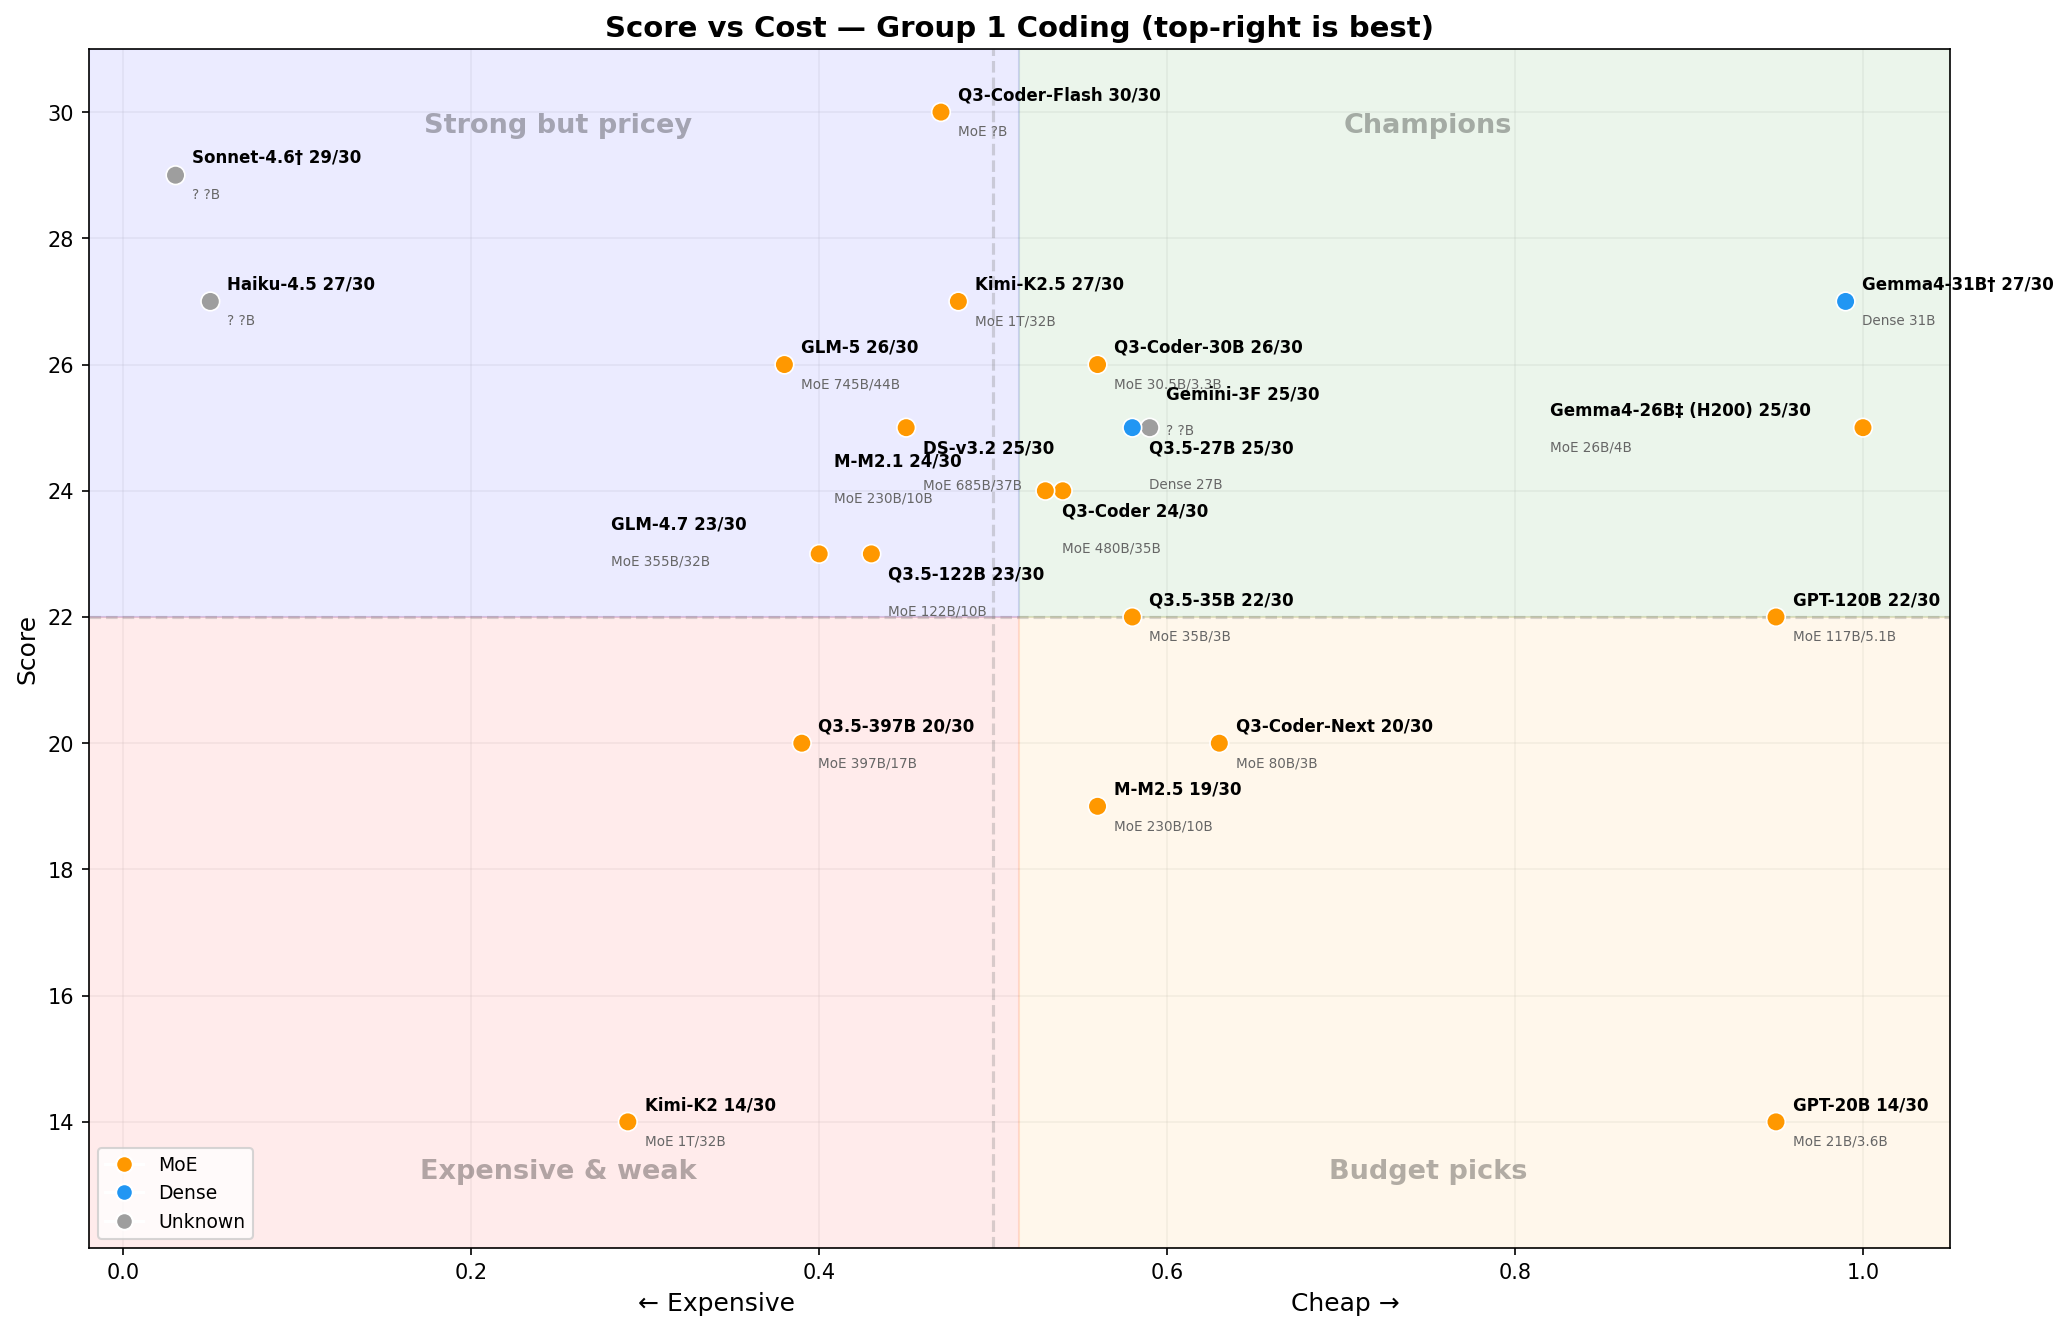
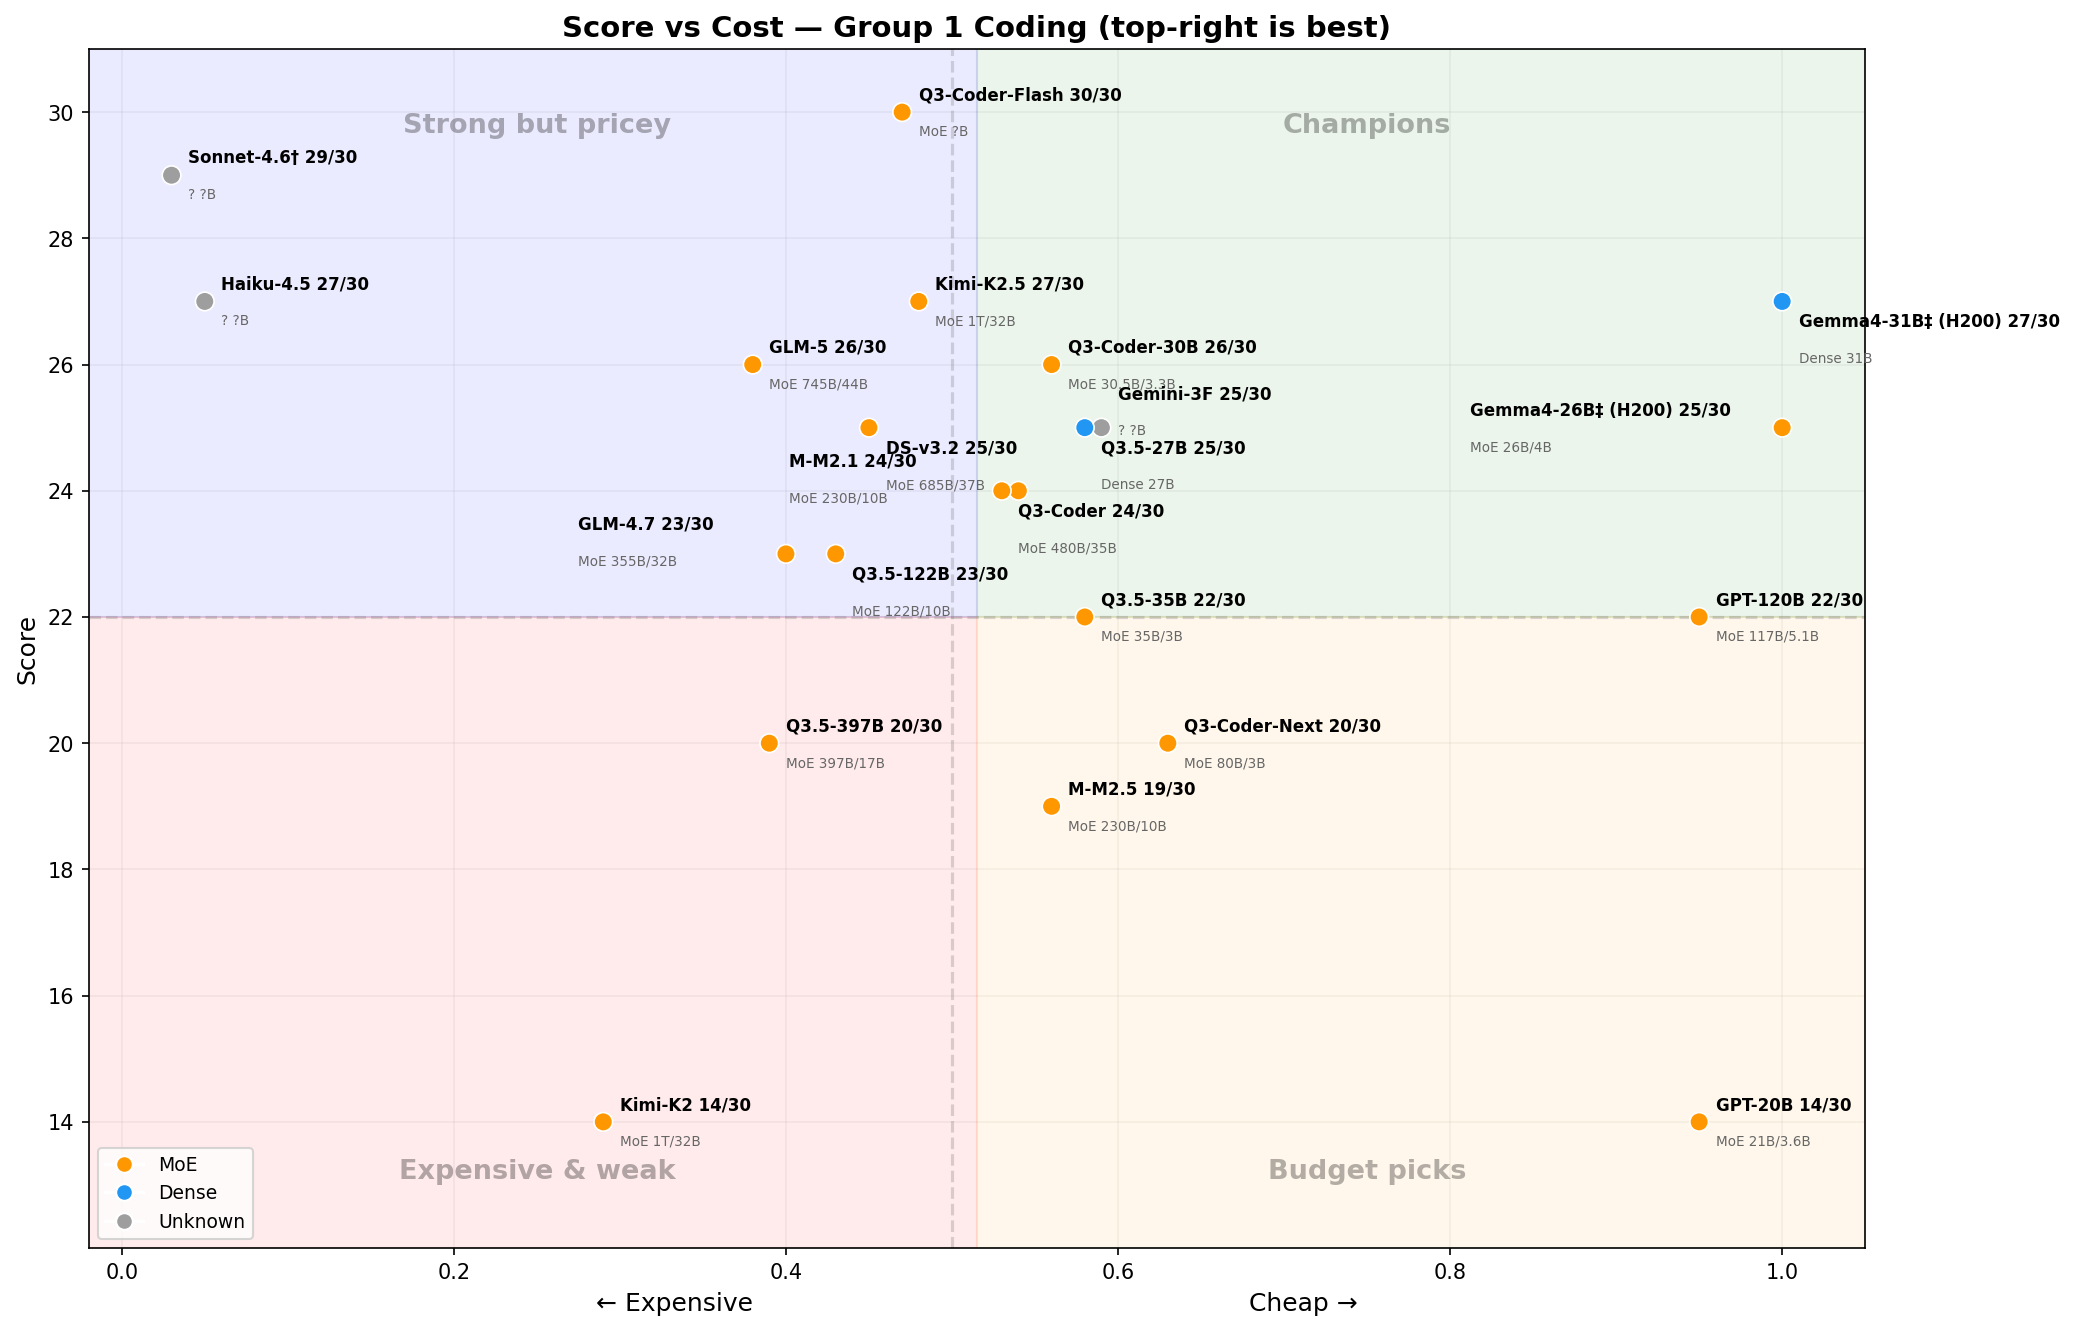
docs: gemma-4-31b-it on H200 vLLM scores 81/90, ties #1 with Sonnet 4.6
Retested gemma-4-31b-it locally on H200 GPU running vLLM (FP8, gemma4
tool parser). G2 gains +1 (test 06 file organizer), bringing total to
81/90 — tied for #1 with Claude Sonnet 4.6. G1 and G3 unchanged at 27.

Updated both READMEs (en + zh): combined chart, main leaderboard,
per-group tables, 31B runner comparison, Dense vs MoE section, and
history table. Regenerated quadrant charts.

diff --git a/generate_quadrant.py b/generate_quadrant.py
@@ -11,7 +11,7 @@ import numpy as np
 # cost_estimate is relative (0=expensive, 1=cheap) matching the mermaid chart
 DATA = [
     ("Sonnet-4.6†", "?", "?B", 29, 0.03),
-    ("Gemma4-31B†", "Dense", "31B", 27, 0.99),
+    ("Gemma4-31B‡ (H200)", "Dense", "31B", 27, 1.00),
     ("Gemma4-26B‡ (H200)", "MoE", "26B/4B", 25, 1.00),
     ("Q3-Coder-Flash", "MoE", "?B", 30, 0.47),
     ("Kimi-K2.5", "MoE", "1T/32B", 27, 0.48),
@@ -104,6 +104,7 @@ def generate_chart(lang='en'):
         "M-M2.5": (8, 4),
         "GPT-20B": (8, 4),
         "Kimi-K2": (8, 4),
+        "Gemma4-31B‡ (H200)": (8, -14),
         "Gemma4-26B‡ (H200)": (-150, 4),
     }
 

diff --git a/README.md b/README.md
@@ -18,9 +18,9 @@ An automated benchmark suite for evaluating LLM **agentic coding ability** via O
 ```mermaid
 xychart-beta horizontal
     title "Combined Score: Coding + OpenClaw + Text-to-SQL (out of 90)"
-    x-axis ["Sonnet†", "Q3-CF", "Gemma4-31B†", "Q3-C", "Q3.5-122B", "GLM-5", "Q3.5-27B", "Q3-30B", "Q3.5-35B", "Q3.5-397B", "GLM4.7", "Gem3F", "Gemma4-26B‡", "GPT-120B", "Haiku†", "Q3-CN", "Kimi2.5", "DS-v3.2", "M-M2.1", "M-M2.5", "GPT-20B", "Kimi2", "Nemo120B"]
+    x-axis ["Sonnet†", "Gemma4-31B‡", "Q3-CF", "Q3-C", "Q3.5-122B", "GLM-5", "Q3.5-27B", "Q3-30B", "Q3.5-35B", "Q3.5-397B", "GLM4.7", "Gem3F", "Gemma4-26B‡", "GPT-120B", "Haiku†", "Q3-CN", "Kimi2.5", "DS-v3.2", "M-M2.1", "M-M2.5", "GPT-20B", "Kimi2", "Nemo120B"]
     y-axis "Score" 0 --> 90
-    bar [81, 80, 80, 77, 77, 77, 75, 73, 72, 72, 71, 70, 70, 69, 69, 66, 65, 62, 61, 58, 52, 41, 17]
+    bar [81, 81, 80, 77, 77, 77, 75, 73, 72, 72, 71, 70, 70, 69, 69, 66, 65, 62, 61, 58, 52, 41, 17]
 ```
 
 ### Leaderboard
@@ -28,30 +28,30 @@ xychart-beta horizontal
 | Rank | Model | Open | Arch | Params | Active | G1 | G2 | G3 | Total |
 |------|-------|:----:|:----:|-------:|-------:|:--:|:--:|:--:|:-----:|
 | 1 | **anthropic/claude-sonnet-4.6** (Claude Code) | | ? | ? | ? | 29 | 26 | 26 | **81** |
-| 2 | qwen/qwen3-coder-flash (OpenRouter) | | MoE | ? | ? | 30 | 25 | 25 | **80** |
-| 2 | google/gemma-4-31b-it† (Gemini API) | OSS | Dense | 31B | 31B | 27 | 26 | 27 | **80** |
-| 4 | qwen/qwen3-coder | OSS | MoE | 480B | 35B | 24 | 24 | 29 | **77** |
-| 4 | qwen/qwen3.5-122b | OSS | MoE | 122B | 10B | 23 | 27 | 27 | **77** |
-| 4 | z-ai/glm-5 | OSS | MoE | 745B | 44B | 26 | 24 | 27 | **77** |
-| 7 | qwen/qwen3.5-27b | OSS | Dense | 27B | 27B | 25 | 26 | 24 | **75** |
-| 8 | qwen/qwen3-coder-30b | OSS | MoE | 30.5B | 3.3B | 26 | 23 | 24 | **73** |
-| 9 | qwen/qwen3.5-35b | OSS | MoE | 35B | 3B | 22 | 27 | 23 | **72** |
-| 9 | qwen/qwen3.5-397b | OSS | MoE | 397B | 17B | 20 | 26 | 26 | **72** |
-| 11 | z-ai/glm-4.7 | OSS | MoE | 355B | 32B | 23 | 23 | 25 | **71** |
-| 12 | google/gemini-3-flash | | ? | ? | ? | 25 | 20 | 25 | **70** |
-| 12 | google/gemma-4-26b-a4b-it‡ (H200, vLLM) | OSS | MoE | 26B | 4B | 25 | 20 | 25 | **70** |
-| 14 | openai/gpt-oss-120b | OSS | MoE | 117B | 5.1B | 22 | 23 | 24 | **69** |
-| 14 | anthropic/claude-haiku-4.5† | | ? | ? | ? | 30 | 20 | 19 | **69** |
-| 16 | qwen/qwen3-coder-next | OSS | MoE | 80B | 3B | 20 | 24 | 22 | **66** |
-| 17 | moonshotai/kimi-k2.5 | OSS | MoE | 1T | 32B | 27 | 23 | 15 | **65** |
-| 18 | deepseek/deepseek-v3.2 | OSS | MoE | 685B | 37B | 25 | 21 | 16 | **62** |
-| 19 | minimax/minimax-m2.1 | OSS | MoE | 230B | 10B | 24 | 19 | 18 | **61** |
-| 20 | minimax/minimax-m2.5 | OSS | MoE | 230B | 10B | 19 | 19 | 20 | **58** |
-| 21 | openai/gpt-oss-20b | OSS | MoE | 21B | 3.6B | 14 | 23 | 15 | **52** |
-| 22 | moonshotai/kimi-k2 | OSS | MoE | 1T | 32B | 14 | 13 | 14 | **41** |
-| 23 | nvidia/nemotron-3-super | OSS | MoE | 120B | 12B | 5 | 12 | 0 | **17** |
+| 1 | **google/gemma-4-31b-it‡** (H200, vLLM) | OSS | Dense | 31B | 31B | 27 | 27 | 27 | **81** |
+| 3 | qwen/qwen3-coder-flash (OpenRouter) | | MoE | ? | ? | 30 | 25 | 25 | **80** |
+| 5 | qwen/qwen3-coder | OSS | MoE | 480B | 35B | 24 | 24 | 29 | **77** |
+| 5 | qwen/qwen3.5-122b | OSS | MoE | 122B | 10B | 23 | 27 | 27 | **77** |
+| 5 | z-ai/glm-5 | OSS | MoE | 745B | 44B | 26 | 24 | 27 | **77** |
+| 8 | qwen/qwen3.5-27b | OSS | Dense | 27B | 27B | 25 | 26 | 24 | **75** |
+| 9 | qwen/qwen3-coder-30b | OSS | MoE | 30.5B | 3.3B | 26 | 23 | 24 | **73** |
+| 10 | qwen/qwen3.5-35b | OSS | MoE | 35B | 3B | 22 | 27 | 23 | **72** |
+| 10 | qwen/qwen3.5-397b | OSS | MoE | 397B | 17B | 20 | 26 | 26 | **72** |
+| 12 | z-ai/glm-4.7 | OSS | MoE | 355B | 32B | 23 | 23 | 25 | **71** |
+| 13 | google/gemini-3-flash | | ? | ? | ? | 25 | 20 | 25 | **70** |
+| 13 | google/gemma-4-26b-a4b-it‡ (H200, vLLM) | OSS | MoE | 26B | 4B | 25 | 20 | 25 | **70** |
+| 15 | openai/gpt-oss-120b | OSS | MoE | 117B | 5.1B | 22 | 23 | 24 | **69** |
+| 15 | anthropic/claude-haiku-4.5† | | ? | ? | ? | 30 | 20 | 19 | **69** |
+| 17 | qwen/qwen3-coder-next | OSS | MoE | 80B | 3B | 20 | 24 | 22 | **66** |
+| 18 | moonshotai/kimi-k2.5 | OSS | MoE | 1T | 32B | 27 | 23 | 15 | **65** |
+| 19 | deepseek/deepseek-v3.2 | OSS | MoE | 685B | 37B | 25 | 21 | 16 | **62** |
+| 20 | minimax/minimax-m2.1 | OSS | MoE | 230B | 10B | 24 | 19 | 18 | **61** |
+| 21 | minimax/minimax-m2.5 | OSS | MoE | 230B | 10B | 19 | 19 | 20 | **58** |
+| 22 | openai/gpt-oss-20b | OSS | MoE | 21B | 3.6B | 14 | 23 | 15 | **52** |
+| 23 | moonshotai/kimi-k2 | OSS | MoE | 1T | 32B | 14 | 13 | 14 | **41** |
+| 24 | nvidia/nemotron-3-super | OSS | MoE | 120B | 12B | 5 | 12 | 0 | **17** |
 
-> **Open** = OSS (open weights on HuggingFace). **Arch** = Dense or MoE. G1 = Python Fundamentals, G2 = OpenClaw Skills, G3 = Text-to-SQL. 23 models tested, March–April 2026. **†** Claude models tested via Claude Code (native API); Gemma 4 31B tested via Gemini native API; all other models tested via OpenRouter. **‡** Gemma 4 26B-A4B retested locally on an **H200 GPU running vLLM** (FP8, native tool calling via the gemma4 parser).
+> **Open** = OSS (open weights on HuggingFace). **Arch** = Dense or MoE. G1 = Python Fundamentals, G2 = OpenClaw Skills, G3 = Text-to-SQL. 23 models tested, March–April 2026. **†** Claude models tested via Claude Code (native API); all other models tested via OpenRouter. **‡** Gemma 4 models retested locally on an **H200 GPU running vLLM** (FP8, native tool calling via the gemma4 parser).
 >
 > **G2 scores updated 2026-03-21:** Validation scripts were fixed to accept SKILL.md placed in subdirectories. Biggest improvements: **qwen3.5-122b** (+17), **gpt-oss-20b** (+16), **GLM-5** (+16).
 >
@@ -71,8 +71,8 @@ xychart-beta horizontal
 
 ### Key Findings
 
-1. **qwen3-coder-flash and Gemma 4 31B tie at 80/90** — qwen3-coder-flash via OpenRouter, Gemma 4 via Gemini native API; both consistently strong across all 3 groups
-2. **Gemma 4 31B is the smallest Dense model to hit 80/90** — at 31B parameters, it outperforms models 5-20x its size; thinking mode adds zero benefit (identical scores)
+1. **Gemma 4 31B ties Sonnet 4.6 for #1 at 81/90 on local H200** — retested via local vLLM (FP8, gemma4 tool parser), gaining +1 on G2 vs the Gemini API run; the smallest Dense model to hit #1
+2. **Gemma 4 31B is the smallest Dense model to hit 81/90** — at 31B parameters, it outperforms models 5-20x its size; thinking mode adds zero benefit (identical scores)
 3. **Gemma 4 26B-A4B (sparse, 4B active) jumps to 70/90 on local H200** — retested via local vLLM with the native gemma4 tool-call parser; previously only 59/90 via Gemini API where rate limits and tool-call translation were dragging G3 down. The model is genuinely capable; the earlier gap was infrastructure, not architecture.
 4. **3-way tie for #4 at 77/90** — qwen3-coder (G3 champion at 29/30), qwen3.5-122b, and GLM-5
 5. **Text-to-SQL reshuffles rankings** — kimi-k2.5 drops from top 3 to #16 due to intermittent tool-use failures on G3; GLM-5 rises thanks to strong G3 performance (27/30)
@@ -94,16 +94,17 @@ We retested Claude Sonnet 4.6 and Haiku 4.5 using **Claude Code subagents** (Ant
 
 **Implication for the leaderboard:** The OpenRouter scores represent a level playing field where every model uses the same API format. The Claude Code scores show what these models can achieve with their native tooling. Other models (Gemini, GPT, etc.) would likely also score higher through their native APIs. The benchmark measures **tool-use via OpenRouter**, not raw model capability — keep this in mind when interpreting results.
 
-### Gemma 4 31B: OpenRouter vs Gemini Native API
+### Gemma 4 31B: OpenRouter → Gemini API → Local H200
 
-We tested google/gemma-4-31b-it using **Google's Gemini native API** with function calling support. On OpenRouter, the model's provider (Novita) does not support native tool calling, requiring a prompt-based workaround. The Gemini API provides proper function calling, yielding much better results.
+We tested google/gemma-4-31b-it across three runners. On OpenRouter, the model's provider (Novita) does not support native tool calling. The Gemini API provides proper function calling. Finally, we retested on a **local H200 GPU running vLLM** (FP8 weights, `--tool-call-parser gemma4`).
 
-| Mode | G1 | G2 | G3 | Total |
-|------|:--:|:--:|:--:|:-----:|
-| **Gemini API (no thinking)** | 27 | 26 | 27 | **80/90** |
-| **Gemini API (thinking=HIGH)** | 27 | 26 | 27 | **80/90** |
+| Runner | G1 | G2 | G3 | Total |
+|--------|:--:|:--:|:--:|:-----:|
+| **H200 / vLLM (FP8)** | 27 | **27** | 27 | **81/90** |
+| Gemini API (no thinking) | 27 | 26 | 27 | 80/90 |
+| Gemini API (thinking=HIGH) | 27 | 26 | 27 | 80/90 |
 
-**Key finding:** Thinking/reasoning mode adds zero benefit — identical scores on every single test. At 31B parameters (Dense), this is the smallest model to achieve 80/90, and it's completely free via Google's API.
+**Key finding:** Local vLLM with the native gemma4 tool parser scores **81/90 — tied for #1** with Sonnet 4.6. The +1 over the Gemini API came from G2 test 06 (file organizer). Thinking mode still adds zero benefit. At 31B Dense parameters, this is the smallest model to reach #1.
 
 ### Gemma 4 31B (Dense) vs 26B-A4B (MoE) — Now via Local H200
 
@@ -111,15 +112,14 @@ We also tested `gemma-4-26b-a4b-it` — the sparse MoE variant with 26B total pa
 
 | Model | Runner | Arch | Total | Active | G1 | G2 | G3 | Total |
 |-------|--------|------|:-----:|:------:|:--:|:--:|:--:|:-----:|
-| **gemma-4-31b-it** | Gemini API | Dense | 31B | 31B | 27 | 26 | 27 | **80/90** |
-| **gemma-4-26b-a4b-it** | **H200 / vLLM (FP8)** | MoE | 26B | ~4B | **25** | **20** | **25** | **70/90** |
+| **gemma-4-31b-it** | **H200 / vLLM (FP8)** | Dense | 31B | 31B | 27 | **27** | 27 | **81/90** |
+| **gemma-4-26b-a4b-it** | **H200 / vLLM (FP8)** | MoE | 26B | ~4B | 25 | 20 | 25 | **70/90** |
 
 **Key findings:**
-- **G3 was an infrastructure problem, not a model problem** — 12/30 → 25/30 once rate limits and the OpenAI-shape tool-call translation were removed. The model can do text-to-SQL just fine.
-- **G1 +3, G3 +13, G2 −5** — G2 regressed slightly on the H200 run (the vLLM gemma4 parser had a couple of small placement / dependency-declaration misses); the net is +11.
-- **Dense 31B still wins overall (80 vs 70)** — but the gap shrinks from 21 to 10 points, much more in line with what "26B sparse with 4B active" should look like vs a 31B Dense model.
-- **Active parameters still matter** — 4B active is still a step down from 31B Dense, especially on G2 skill scaffolding and on the harder G1 coding tasks (test 09 0/3, test 10 2/3).
-- **Local serving > API for small open models** — when the model is hosted with its proper native tool parser, no rate limits, and no translation layer, it scores meaningfully higher. The earlier 59 was punishing the runner, not the weights.
+- **Both models benefit from local serving** — 31B gains +1 (G2), 26B gains +11 (mostly G3 recovering from API rate-limit collapse)
+- **Dense 31B still wins overall (81 vs 70)** — the gap is 11 points, consistent with the 8x difference in active parameters (31B vs 4B)
+- **Active parameters still matter** — 4B active is still a step down from 31B Dense, especially on G2 skill scaffolding and on the harder G1 coding tasks (test 09 0/3, test 10 2/3)
+- **Local serving > API for open models** — when the model is hosted with its proper native tool parser, no rate limits, and no translation layer, scores go up. The earlier 59 for 26B was punishing the runner, not the weights.
 
 </details>
 
@@ -139,7 +139,7 @@ We also tested `gemma-4-26b-a4b-it` — the sparse MoE variant with 26B total pa
 | 1 | anthropic/claude-haiku-4.5† | | 3 | 3 | 3 | 3 | 3 | 3 | 3 | 3 | 3 | 3 | **30/30** | — | — | — |
 | 3 | anthropic/claude-sonnet-4.6† | | 3 | 3 | 3 | 3 | 3 | 3 | 2 | 3 | 3 | 3 | **29/30** | — | — | — |
 | 4 | moonshotai/kimi-k2.5 | OSS | 3 | 3 | 3 | 3 | 3 | 3 | 2 | 3 | 3 | 1 | **27/30** | 15m26s | 258K | 9.6K |
-| 4 | google/gemma-4-31b-it† | OSS | 2 | 3 | 3 | 3 | 3 | 3 | 2 | 3 | 3 | 2 | **27/30** | ~2h | ~1.2M | — |
+| 4 | google/gemma-4-31b-it‡ (H200) | OSS | 2 | 3 | 3 | 3 | 3 | 3 | 3 | 3 | 3 | 1 | **27/30** | 6m56s | 67K | 2.5K |
 | 6 | z-ai/glm-5 | OSS | 2 | 3 | 3 | 3 | 3 | 3 | 2 | 3 | 3 | 1 | **26/30** | 27m03s | 354K | 13.6K |
 | 6 | qwen/qwen3-coder-30b | OSS | 2 | 2 | 3 | 3 | 3 | 3 | 3 | 3 | 3 | 1 | **26/30** | 24m51s | 1420K | 54.6K |
 | 8 | deepseek/deepseek-v3.2 | OSS | 2 | 3 | 3 | 3 | 3 | 3 | 2 | 3 | 3 | 1 | **25/30** | — | — | — |
@@ -221,7 +221,7 @@ pie title Pass Rate by Category
 |------|-------|:----:|----|----|----|----|----|----|----|----|----|----|-------|
 | 1 | **qwen/qwen3.5-122b** | OSS | 3 | 2 | 3 | 2 | 3 | 3 | 3 | 3 | 2 | 3 | **27/30** |
 | 1 | qwen/qwen3.5-35b | OSS | 3 | 2 | 3 | 2 | 3 | 3 | 3 | 3 | 2 | 3 | **27/30** |
-| 3 | google/gemma-4-31b-it† | OSS | 3 | 2 | 3 | 3 | 3 | 1 | 3 | 3 | 2 | 3 | **26/30** |
+| 1 | google/gemma-4-31b-it‡ (H200) | OSS | 3 | 2 | 3 | 2 | 3 | 3 | 3 | 3 | 2 | 3 | **27/30** |
 | 3 | anthropic/claude-sonnet-4.6† | | 3 | 2 | 3 | 3 | 3 | 2 | 1 | 3 | 3 | 3 | **26/30** |
 | 3 | qwen/qwen3.5-27b | OSS | 3 | 2 | 3 | 2 | 3 | 2 | 3 | 3 | 2 | 3 | **26/30** |
 | 3 | qwen/qwen3.5-397b | OSS | 3 | 2 | 3 | 2 | 3 | 3 | 3 | 2 | 2 | 3 | **26/30** |
@@ -280,7 +280,7 @@ pie title Pass Rate by Category
 | Rank | Model | Open | 01 | 02 | 03 | 04 | 05 | 06 | 07 | 08 | 09 | 10 | Total |
 |------|-------|:----:|----|----|----|----|----|----|----|----|----|----|-------|
 | 1 | **qwen/qwen3-coder** | OSS | 3 | 3 | 2 | 3 | 3 | 3 | 3 | 3 | 3 | 3 | **29/30** |
-| 2 | google/gemma-4-31b-it† | OSS | 3 | 3 | 0 | 3 | 3 | 3 | 3 | 3 | 3 | 3 | **27/30** |
+| 2 | google/gemma-4-31b-it‡ (H200) | OSS | 3 | 3 | 3 | 2 | 3 | 2 | 3 | 3 | 2 | 3 | **27/30** |
 | 2 | z-ai/glm-5 | OSS | 2 | 3 | 1 | 3 | 3 | 3 | 3 | 3 | 3 | 3 | **27/30** |
 | 2 | qwen/qwen3.5-122b | OSS | 3 | 3 | 1 | 3 | 3 | 3 | 2 | 3 | 3 | 3 | **27/30** |
 | 5 | qwen/qwen3.5-397b | OSS | 3 | 3 | 0 | 2 | 3 | 3 | 3 | 3 | 3 | 3 | **26/30** |
@@ -395,7 +395,8 @@ Each test: 3 checks x 1 point = 3 points. Total per group: 30 points.
 | 3 | 2026-03-22 | agent_harness | 20 | G1+G2+G3 | Text-to-SQL added — qwen3-coder-flash leads at 80/90 |
 | 4 | 2026-04-03 | agent_harness_gemini | 22 | G1+G2+G3 | Gemma 4 31B ties for #2 at 80/90 — smallest Dense model to hit 80, thinking adds zero benefit |
 | 5 | 2026-04-03 | agent_harness_gemini | 23 | G1+G2+G3 | Gemma 4 26B-A4B (sparse MoE, 4B active) scores 59/90 via Gemini API — G3 collapses (12/30) under rate limits |
-| **6** | **2026-04-09** | **agent_harness (vLLM, H200)** | **23** | **G1+G2+G3** | **Gemma 4 26B-A4B retested locally on H200 + vLLM (FP8, gemma4 tool parser): 70/90. G3 recovers from 12 → 25; gap to Dense 31B narrows from 21 to 10 pts.** |
+| 6 | 2026-04-09 | agent_harness (vLLM, H200) | 23 | G1+G2+G3 | Gemma 4 26B-A4B retested locally on H200 + vLLM (FP8, gemma4 tool parser): 70/90. G3 recovers from 12 → 25 |
+| **7** | **2026-04-09** | **agent_harness (vLLM, H200)** | **23** | **G1+G2+G3** | **Gemma 4 31B also retested on H200 vLLM: 81/90 (+1 G2), ties Sonnet 4.6 for #1** |
 
 ## License
 

diff --git a/README_zh.md b/README_zh.md
@@ -18,9 +18,9 @@
 ```mermaid
 xychart-beta horizontal
     title "綜合得分：寫程式 + OpenClaw + Text-to-SQL（滿分 90）"
-    x-axis ["Sonnet†", "Q3-CF", "Gemma4-31B†", "Q3-C", "Q3.5-122B", "GLM-5", "Q3.5-27B", "Q3-30B", "Q3.5-35B", "Q3.5-397B", "GLM4.7", "Gem3F", "Gemma4-26B‡", "GPT-120B", "Haiku†", "Q3-CN", "Kimi2.5", "DS-v3.2", "M-M2.1", "M-M2.5", "GPT-20B", "Kimi2", "Nemo120B"]
+    x-axis ["Sonnet†", "Gemma4-31B‡", "Q3-CF", "Q3-C", "Q3.5-122B", "GLM-5", "Q3.5-27B", "Q3-30B", "Q3.5-35B", "Q3.5-397B", "GLM4.7", "Gem3F", "Gemma4-26B‡", "GPT-120B", "Haiku†", "Q3-CN", "Kimi2.5", "DS-v3.2", "M-M2.1", "M-M2.5", "GPT-20B", "Kimi2", "Nemo120B"]
     y-axis "分數" 0 --> 90
-    bar [81, 80, 80, 77, 77, 77, 75, 73, 72, 72, 71, 70, 70, 69, 69, 66, 65, 62, 61, 58, 52, 41, 17]
+    bar [81, 81, 80, 77, 77, 77, 75, 73, 72, 72, 71, 70, 70, 69, 69, 66, 65, 62, 61, 58, 52, 41, 17]
 ```
 
 ### 排行榜
@@ -28,30 +28,30 @@ xychart-beta horizontal
 | 排名 | 模型 | 開源 | 架構 | 參數 | 活躍 | G1 | G2 | G3 | 綜合 |
 |------|------|:----:|:----:|-----:|-----:|:--:|:--:|:--:|:----:|
 | 1 | **anthropic/claude-sonnet-4.6** (Claude Code) | | ? | ? | ? | 29 | 26 | 26 | **81** |
-| 2 | qwen/qwen3-coder-flash (OpenRouter) | | MoE | ? | ? | 30 | 25 | 25 | **80** |
-| 2 | google/gemma-4-31b-it† (Gemini API) | OSS | Dense | 31B | 31B | 27 | 26 | 27 | **80** |
-| 4 | qwen/qwen3-coder | OSS | MoE | 480B | 35B | 24 | 24 | 29 | **77** |
-| 4 | qwen/qwen3.5-122b | OSS | MoE | 122B | 10B | 23 | 27 | 27 | **77** |
-| 4 | z-ai/glm-5 | OSS | MoE | 745B | 44B | 26 | 24 | 27 | **77** |
-| 7 | qwen/qwen3.5-27b | OSS | Dense | 27B | 27B | 25 | 26 | 24 | **75** |
-| 8 | qwen/qwen3-coder-30b | OSS | MoE | 30.5B | 3.3B | 26 | 23 | 24 | **73** |
-| 9 | qwen/qwen3.5-35b | OSS | MoE | 35B | 3B | 22 | 27 | 23 | **72** |
-| 9 | qwen/qwen3.5-397b | OSS | MoE | 397B | 17B | 20 | 26 | 26 | **72** |
-| 11 | z-ai/glm-4.7 | OSS | MoE | 355B | 32B | 23 | 23 | 25 | **71** |
-| 12 | google/gemini-3-flash | | ? | ? | ? | 25 | 20 | 25 | **70** |
-| 12 | google/gemma-4-26b-a4b-it‡ (H200, vLLM) | OSS | MoE | 26B | 4B | 25 | 20 | 25 | **70** |
-| 14 | openai/gpt-oss-120b | OSS | MoE | 117B | 5.1B | 22 | 23 | 24 | **69** |
-| 14 | anthropic/claude-haiku-4.5† | | ? | ? | ? | 30 | 20 | 19 | **69** |
-| 16 | qwen/qwen3-coder-next | OSS | MoE | 80B | 3B | 20 | 24 | 22 | **66** |
-| 17 | moonshotai/kimi-k2.5 | OSS | MoE | 1T | 32B | 27 | 23 | 15 | **65** |
-| 18 | deepseek/deepseek-v3.2 | OSS | MoE | 685B | 37B | 25 | 21 | 16 | **62** |
-| 19 | minimax/minimax-m2.1 | OSS | MoE | 230B | 10B | 24 | 19 | 18 | **61** |
-| 20 | minimax/minimax-m2.5 | OSS | MoE | 230B | 10B | 19 | 19 | 20 | **58** |
-| 21 | openai/gpt-oss-20b | OSS | MoE | 21B | 3.6B | 14 | 23 | 15 | **52** |
-| 22 | moonshotai/kimi-k2 | OSS | MoE | 1T | 32B | 14 | 13 | 14 | **41** |
-| 23 | nvidia/nemotron-3-super | OSS | MoE | 120B | 12B | 5 | 12 | 0 | **17** |
+| 1 | **google/gemma-4-31b-it‡** (H200, vLLM) | OSS | Dense | 31B | 31B | 27 | 27 | 27 | **81** |
+| 3 | qwen/qwen3-coder-flash (OpenRouter) | | MoE | ? | ? | 30 | 25 | 25 | **80** |
+| 5 | qwen/qwen3-coder | OSS | MoE | 480B | 35B | 24 | 24 | 29 | **77** |
+| 5 | qwen/qwen3.5-122b | OSS | MoE | 122B | 10B | 23 | 27 | 27 | **77** |
+| 5 | z-ai/glm-5 | OSS | MoE | 745B | 44B | 26 | 24 | 27 | **77** |
+| 8 | qwen/qwen3.5-27b | OSS | Dense | 27B | 27B | 25 | 26 | 24 | **75** |
+| 9 | qwen/qwen3-coder-30b | OSS | MoE | 30.5B | 3.3B | 26 | 23 | 24 | **73** |
+| 10 | qwen/qwen3.5-35b | OSS | MoE | 35B | 3B | 22 | 27 | 23 | **72** |
+| 10 | qwen/qwen3.5-397b | OSS | MoE | 397B | 17B | 20 | 26 | 26 | **72** |
+| 12 | z-ai/glm-4.7 | OSS | MoE | 355B | 32B | 23 | 23 | 25 | **71** |
+| 13 | google/gemini-3-flash | | ? | ? | ? | 25 | 20 | 25 | **70** |
+| 13 | google/gemma-4-26b-a4b-it‡ (H200, vLLM) | OSS | MoE | 26B | 4B | 25 | 20 | 25 | **70** |
+| 15 | openai/gpt-oss-120b | OSS | MoE | 117B | 5.1B | 22 | 23 | 24 | **69** |
+| 15 | anthropic/claude-haiku-4.5† | | ? | ? | ? | 30 | 20 | 19 | **69** |
+| 17 | qwen/qwen3-coder-next | OSS | MoE | 80B | 3B | 20 | 24 | 22 | **66** |
+| 18 | moonshotai/kimi-k2.5 | OSS | MoE | 1T | 32B | 27 | 23 | 15 | **65** |
+| 19 | deepseek/deepseek-v3.2 | OSS | MoE | 685B | 37B | 25 | 21 | 16 | **62** |
+| 20 | minimax/minimax-m2.1 | OSS | MoE | 230B | 10B | 24 | 19 | 18 | **61** |
+| 21 | minimax/minimax-m2.5 | OSS | MoE | 230B | 10B | 19 | 19 | 20 | **58** |
+| 22 | openai/gpt-oss-20b | OSS | MoE | 21B | 3.6B | 14 | 23 | 15 | **52** |
+| 23 | moonshotai/kimi-k2 | OSS | MoE | 1T | 32B | 14 | 13 | 14 | **41** |
+| 24 | nvidia/nemotron-3-super | OSS | MoE | 120B | 12B | 5 | 12 | 0 | **17** |
 
-> **開源** = OSS（HuggingFace 開放權重）。**架構** = Dense 或 MoE。G1 = Python 基礎、G2 = OpenClaw 技能、G3 = Text-to-SQL。共 23 個模型，2026 年 3-4 月。**†** Claude 模型透過 Claude Code（原生 API）測試；Gemma 4 31B 透過 Gemini 原生 API 測試；其他模型均透過 OpenRouter 測試。**‡** Gemma 4 26B-A4B 已改在**本地 H200 GPU 上以 vLLM 重新測試**（FP8 權重，使用 gemma4 原生 tool-call parser，無 API、無速率限制）。
+> **開源** = OSS（HuggingFace 開放權重）。**架構** = Dense 或 MoE。G1 = Python 基礎、G2 = OpenClaw 技能、G3 = Text-to-SQL。共 23 個模型，2026 年 3-4 月。**†** Claude 模型透過 Claude Code（原生 API）測試；其他模型均透過 OpenRouter 測試。**‡** Gemma 4 模型已改在**本地 H200 GPU 上以 vLLM 重新測試**（FP8 權重，使用 gemma4 原生 tool-call parser）。
 >
 > **G2 分數於 2026-03-21 更新：**驗證腳本已修正，接受將 SKILL.md 放在子目錄中。最大改善：**qwen3.5-122b**（+17）、**gpt-oss-20b**（+16）、**GLM-5**（+16）。
 >
@@ -71,8 +71,8 @@ xychart-beta horizontal
 
 ### 主要發現
 
-1. **qwen3-coder-flash 與 Gemma 4 31B 並列 80/90** — qwen3-coder-flash 透過 OpenRouter，Gemma 4 透過 Gemini 原生 API；兩者在三個分組均表現穩定
-2. **Gemma 4 31B 是達到 80/90 的最小 Dense 模型** — 僅 31B Dense 參數，超越體積 5-20 倍的模型；思考模式零增益（分數完全相同）
+1. **Gemma 4 31B 在本地 H200 上與 Sonnet 4.6 並列第一（81/90）** — 改用本地 vLLM（FP8、gemma4 tool parser）重測，G2 +1；31B Dense 是達到第一名的最小模型
+2. **Gemma 4 31B 是達到 81/90 的最小 Dense 模型** — 僅 31B Dense 參數，超越體積 5-20 倍的模型；思考模式零增益（分數完全相同）
 3. **Gemma 4 26B-A4B 在本地 H200 上躍升至 70/90** — 改用本地 vLLM + 原生 gemma4 tool-call parser 重新測試後，從原本透過 Gemini API 的 59/90 提升 11 分；G3 從 12/30 回升到 25/30。先前的低分主要來自 API 速率限制與 OpenAI 形式的工具呼叫轉譯，並非模型本身能力不足。
 4. **三方並列第四（77/90）** — qwen3-coder（G3 冠軍 29/30）、qwen3.5-122b、GLM-5
 5. **Text-to-SQL 重新洗牌排名** — kimi-k2.5 因 G3 工具呼叫不穩定從前三跌至第 16 名；GLM-5 憑藉 G3 強勁表現（27/30）躍升
@@ -94,16 +94,17 @@ xychart-beta horizontal
 
 **對排行榜的影響：** OpenRouter 分數代表所有模型使用相同 API 格式的公平競爭環境。Claude Code 分數則展示這些模型在原生工具環境下的真實能力。其他模型（Gemini、GPT 等）透過各自的原生 API 可能也會得分更高。本基準測試衡量的是**透過 OpenRouter 的工具使用能力**，而非模型的原始能力 — 解讀結果時請留意這一點。
 
-### Gemma 4 31B：OpenRouter vs Gemini 原生 API
+### Gemma 4 31B：OpenRouter → Gemini API → 本地 H200
 
-我們使用 **Google 的 Gemini 原生 API** 搭配 function calling 測試了 google/gemma-4-31b-it。在 OpenRouter 上，該模型的提供商（Novita）不支援原生工具呼叫，需要使用基於提示的變通方案。Gemini API 提供了正確的 function calling 支援，因此結果大幅提升。
+我們在三種環境下測試了 google/gemma-4-31b-it。在 OpenRouter 上，提供商（Novita）不支援原生工具呼叫。Gemini API 提供了正確的 function calling。最後，我們在**本地 H200 GPU 以 vLLM 重新測試**（FP8 權重，`--tool-call-parser gemma4`）。
 
-| 模式 | G1 | G2 | G3 | 綜合 |
-|------|:--:|:--:|:--:|:----:|
-| **Gemini API（無思考）** | 27 | 26 | 27 | **80/90** |
-| **Gemini API（thinking=HIGH）** | 27 | 26 | 27 | **80/90** |
+| 執行環境 | G1 | G2 | G3 | 綜合 |
+|----------|:--:|:--:|:--:|:----:|
+| **H200 / vLLM (FP8)** | 27 | **27** | 27 | **81/90** |
+| Gemini API（無思考） | 27 | 26 | 27 | 80/90 |
+| Gemini API（thinking=HIGH） | 27 | 26 | 27 | 80/90 |
 
-**主要發現：** 思考/推理模式零增益 — 每項測試的分數完全相同。以 31B 參數（Dense 架構），這是達到 80/90 的最小模型，且透過 Google API 完全免費。
+**主要發現：** 本地 vLLM + 原生 gemma4 tool parser 達到 **81/90 — 與 Sonnet 4.6 並列第一**。比 Gemini API +1 來自 G2 test 06（檔案整理器）。思考模式仍然零增益。以 31B Dense 參數，這是達到第一名的最小模型。
 
 ### Gemma 4 31B（Dense）vs 26B-A4B（MoE）— 已改在本地 H200 重測
 
@@ -111,15 +112,14 @@ xychart-beta horizontal
 
 | 模型 | 執行環境 | 架構 | 總參數 | 活躍 | G1 | G2 | G3 | 綜合 |
 |------|----------|------|:------:|:----:|:--:|:--:|:--:|:----:|
-| **gemma-4-31b-it** | Gemini API | Dense | 31B | 31B | 27 | 26 | 27 | **80/90** |
-| **gemma-4-26b-a4b-it** | **H200 / vLLM (FP8)** | MoE | 26B | ~4B | **25** | **20** | **25** | **70/90** |
+| **gemma-4-31b-it** | **H200 / vLLM (FP8)** | Dense | 31B | 31B | 27 | **27** | 27 | **81/90** |
+| **gemma-4-26b-a4b-it** | **H200 / vLLM (FP8)** | MoE | 26B | ~4B | 25 | 20 | 25 | **70/90** |
 
 **主要發現：**
-- **G3 是基礎建設問題，不是模型問題** — 一旦移除速率限制與 OpenAI 形式的 tool-call 轉譯層，G3 就從 12/30 回到 25/30。模型本身的 Text-to-SQL 能力是充足的。
-- **G1 +3、G3 +13、G2 −5** — H200 的 G2 略為下降（vLLM 的 gemma4 parser 在幾個檔案放置／依賴宣告檢查上偶爾失誤）；綜合淨增 +11。
-- **Dense 31B 仍勝出（80 vs 70）** — 但差距從 21 分縮小到 10 分，更符合「26B 稀疏 / 4B 活躍」對上「31B Dense」應有的差距。
-- **活躍參數仍然重要** — 4B 活躍仍弱於 31B Dense，特別是在 G2 技能搭建與較難的 G1 編碼任務上（test 09 0/3、test 10 2/3）。
-- **小型開源模型本地部署優於 API** — 用對的原生 tool parser、無速率限制、無轉譯層，分數會明顯上升。原本的 59 是在懲罰執行環境，而不是權重本身。
+- **兩個模型都受益於本地部署** — 31B 增加 +1（G2），26B 增加 +11（主要是 G3 從 API 速率限制崩潰中恢復）
+- **Dense 31B 仍勝出（81 vs 70）** — 差距 11 分，與 8 倍的活躍參數差異（31B vs 4B）一致
+- **活躍參數仍然重要** — 4B 活躍仍弱於 31B Dense，特別是在 G2 技能搭建與較難的 G1 編碼任務上（test 09 0/3、test 10 2/3）
+- **開源模型本地部署優於 API** — 用對的原生 tool parser、無速率限制、無轉譯層，分數會明顯上升。原本 26B 的 59 是在懲罰執行環境，而不是權重本身。
 
 </details>
 
@@ -139,7 +139,7 @@ xychart-beta horizontal
 | 1 | anthropic/claude-haiku-4.5† | | 3 | 3 | 3 | 3 | 3 | 3 | 3 | 3 | 3 | 3 | **30/30** | — | — | — |
 | 3 | anthropic/claude-sonnet-4.6† | | 3 | 3 | 3 | 3 | 3 | 3 | 2 | 3 | 3 | 3 | **29/30** | — | — | — |
 | 4 | moonshotai/kimi-k2.5 | OSS | 3 | 3 | 3 | 3 | 3 | 3 | 2 | 3 | 3 | 1 | **27/30** | 15m26s | 258K | 9.6K |
-| 4 | google/gemma-4-31b-it† | OSS | 2 | 3 | 3 | 3 | 3 | 3 | 2 | 3 | 3 | 2 | **27/30** | ~2h | ~1.2M | — |
+| 4 | google/gemma-4-31b-it‡ (H200) | OSS | 2 | 3 | 3 | 3 | 3 | 3 | 3 | 3 | 3 | 1 | **27/30** | 6m56s | 67K | 2.5K |
 | 6 | z-ai/glm-5 | OSS | 2 | 3 | 3 | 3 | 3 | 3 | 2 | 3 | 3 | 1 | **26/30** | 27m03s | 354K | 13.6K |
 | 6 | qwen/qwen3-coder-30b | OSS | 2 | 2 | 3 | 3 | 3 | 3 | 3 | 3 | 3 | 1 | **26/30** | 24m51s | 1420K | 54.6K |
 | 8 | deepseek/deepseek-v3.2 | OSS | 2 | 3 | 3 | 3 | 3 | 3 | 2 | 3 | 3 | 1 | **25/30** | — | — | — |
@@ -221,7 +221,7 @@ pie title 各類別通過率
 |------|------|:----:|----|----|----|----|----|----|----|----|----|----|------|
 | 1 | **qwen/qwen3.5-122b** | OSS | 3 | 2 | 3 | 2 | 3 | 3 | 3 | 3 | 2 | 3 | **27/30** |
 | 1 | qwen/qwen3.5-35b | OSS | 3 | 2 | 3 | 2 | 3 | 3 | 3 | 3 | 2 | 3 | **27/30** |
-| 3 | google/gemma-4-31b-it† | OSS | 3 | 2 | 3 | 3 | 3 | 1 | 3 | 3 | 2 | 3 | **26/30** |
+| 1 | google/gemma-4-31b-it‡ (H200) | OSS | 3 | 2 | 3 | 2 | 3 | 3 | 3 | 3 | 2 | 3 | **27/30** |
 | 3 | anthropic/claude-sonnet-4.6† | | 3 | 2 | 3 | 3 | 3 | 2 | 1 | 3 | 3 | 3 | **26/30** |
 | 3 | qwen/qwen3.5-27b | OSS | 3 | 2 | 3 | 2 | 3 | 2 | 3 | 3 | 2 | 3 | **26/30** |
 | 3 | qwen/qwen3.5-397b | OSS | 3 | 2 | 3 | 2 | 3 | 3 | 3 | 2 | 2 | 3 | **26/30** |
@@ -280,7 +280,7 @@ pie title 各類別通過率
 | 排名 | 模型 | 開源 | 01 | 02 | 03 | 04 | 05 | 06 | 07 | 08 | 09 | 10 | 總分 |
 |------|------|:----:|----|----|----|----|----|----|----|----|----|----|------|
 | 1 | **qwen/qwen3-coder** | OSS | 3 | 3 | 2 | 3 | 3 | 3 | 3 | 3 | 3 | 3 | **29/30** |
-| 2 | google/gemma-4-31b-it† | OSS | 3 | 3 | 0 | 3 | 3 | 3 | 3 | 3 | 3 | 3 | **27/30** |
+| 2 | google/gemma-4-31b-it‡ (H200) | OSS | 3 | 3 | 3 | 2 | 3 | 2 | 3 | 3 | 2 | 3 | **27/30** |
 | 2 | z-ai/glm-5 | OSS | 2 | 3 | 1 | 3 | 3 | 3 | 3 | 3 | 3 | 3 | **27/30** |
 | 2 | qwen/qwen3.5-122b | OSS | 3 | 3 | 1 | 3 | 3 | 3 | 2 | 3 | 3 | 3 | **27/30** |
 | 5 | qwen/qwen3.5-397b | OSS | 3 | 3 | 0 | 2 | 3 | 3 | 3 | 3 | 3 | 3 | **26/30** |
@@ -395,7 +395,8 @@ OPENCODE_TIMEOUT=600 ./run_benchmark.sh                     # 自訂超時時間
 | 3 | 2026-03-22 | agent_harness | 20 | G1+G2+G3 | 新增 Text-to-SQL — qwen3-coder-flash 以 80/90 領先 |
 | 4 | 2026-04-03 | agent_harness_gemini | 22 | G1+G2+G3 | Gemma 4 31B 並列第二 80/90 — 達到 80 的最小 Dense 模型，思考模式零增益 |
 | 5 | 2026-04-03 | agent_harness_gemini | 23 | G1+G2+G3 | Gemma 4 26B-A4B 透過 Gemini API 得 59/90 — G3 受速率限制崩潰（12/30）|
-| **6** | **2026-04-09** | **agent_harness（vLLM, H200）** | **23** | **G1+G2+G3** | **Gemma 4 26B-A4B 改在本地 H200 + vLLM（FP8、gemma4 tool parser）重測：70/90。G3 從 12 → 25；與 Dense 31B 的差距由 21 縮小到 10 分。** |
+| 6 | 2026-04-09 | agent_harness（vLLM, H200） | 23 | G1+G2+G3 | Gemma 4 26B-A4B 改在本地 H200 + vLLM 重測：70/90。G3 從 12 → 25 |
+| **7** | **2026-04-09** | **agent_harness（vLLM, H200）** | **23** | **G1+G2+G3** | **Gemma 4 31B 亦在 H200 vLLM 重測：81/90（G2 +1），與 Sonnet 4.6 並列第一** |
 
 ## 授權
 